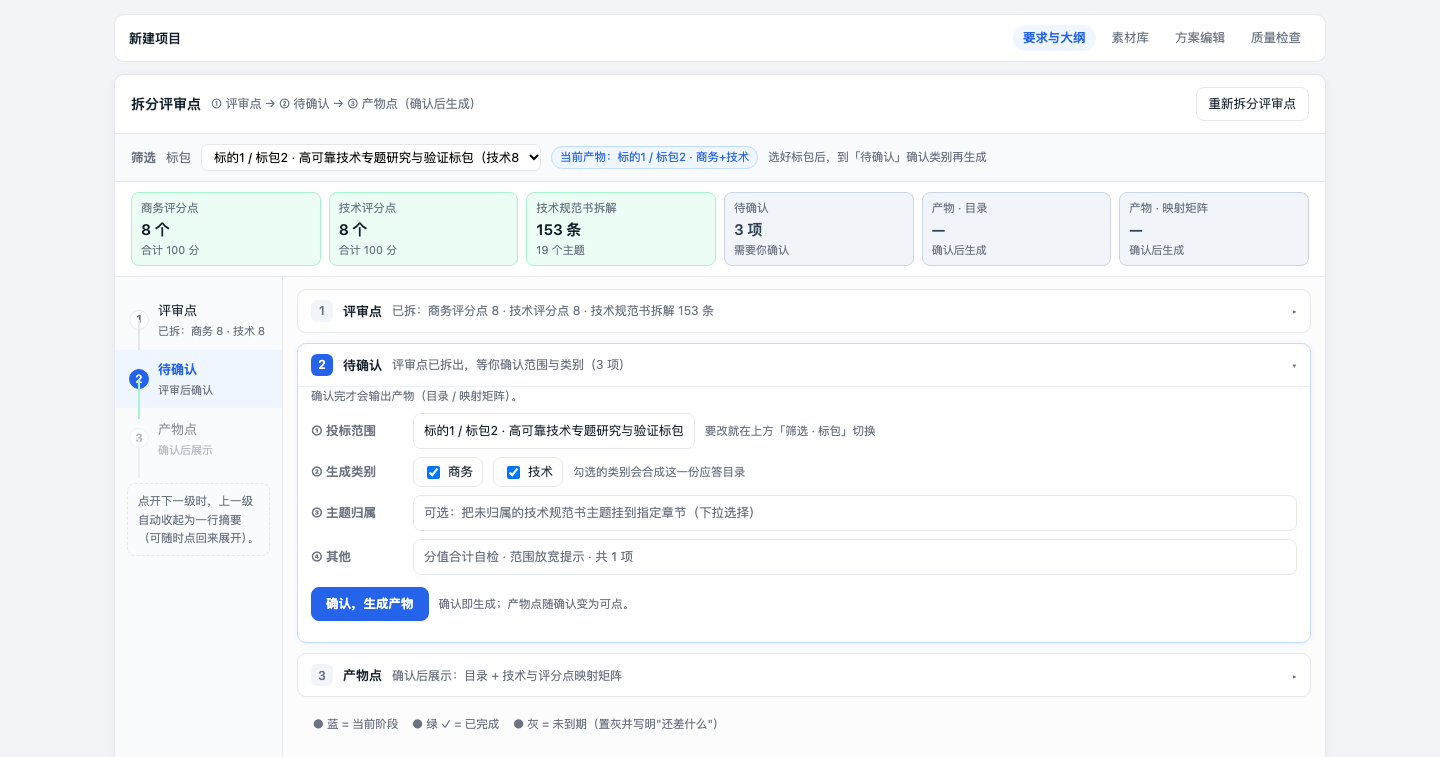
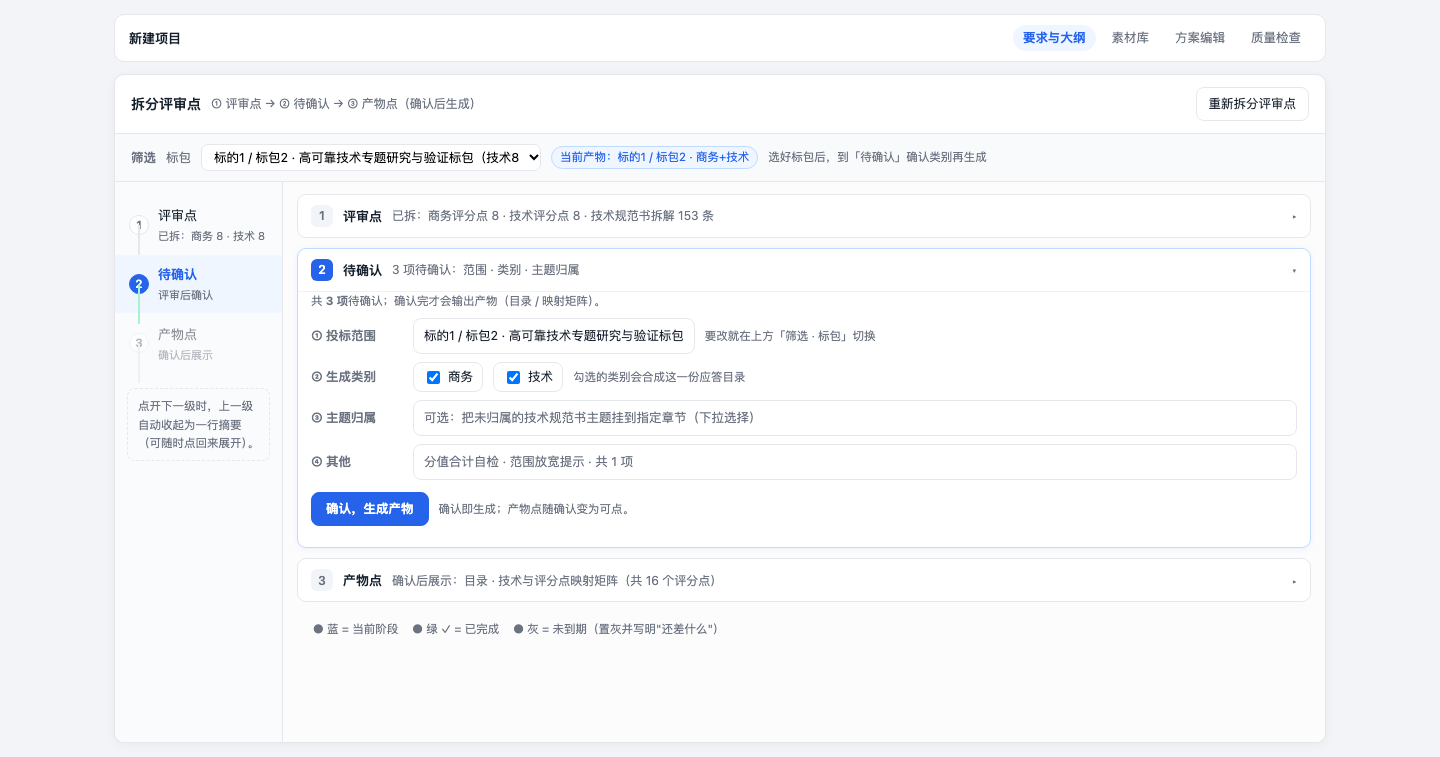
docs(mockup): 删掉顶部 6 格指标条 —— 数字归入各阶段（用户：融合到下面，不用单独展示）
用户反馈：
> 上面的 6 个模块，商务评分点就是评分点，这块内容可以融合到下面的内容里面去，就不用单独展示了

改法：
- 删除顶部 6 格指标条（商务评分点 / 技术评分点 / 技术规范书拆解 / 待确认 /
  产物·目录 / 产物·映射矩阵）—— 与下面阶段里的数量重复；
- 数量归到它该在的位置：
  · ① 评审点 摘要：商务评分点 8 · 技术评分点 8 · 技术规范书拆解 153 条
    （子页签 badge 也带 8 / 8 / 153）
  · ② 待确认 摘要：3 项待确认：范围 · 类别 · 主题归属
  · ③ 产物点 摘要：确认后展示：目录 · 技术与评分点映射矩阵（共 16 个评分点）
- 待确认阶段内补一行「共 3 项待确认」。

效果：面板从「筛选 + 6 格指标 + 三阶段」收敛为「筛选 + 左侧竖条 + 三阶段内容」。

diff --git a/docs/design/mockups/stage-rail-accordion.html b/docs/design/mockups/stage-rail-accordion.html
@@ -157,16 +157,6 @@
       <span class="note">选好标包后，到「待确认」确认类别再生成</span>
     </div>
 
-    <!-- 指标（随阶段变化；这里展示"评审点"阶段的指标） -->
-    <div class="metrics">
-      <div class="m ok"><div class="l">商务评分点</div><div class="v">8 个</div><div class="s">合计 100 分</div></div>
-      <div class="m ok"><div class="l">技术评分点</div><div class="v">8 个</div><div class="s">合计 100 分</div></div>
-      <div class="m ok"><div class="l">技术规范书拆解</div><div class="v">153 条</div><div class="s">19 个主题</div></div>
-      <div class="m pending"><div class="l">待确认</div><div class="v">3 项</div><div class="s">需要你确认</div></div>
-      <div class="m pending"><div class="l">产物 · 目录</div><div class="v">—</div><div class="s">确认后生成</div></div>
-      <div class="m pending"><div class="l">产物 · 映射矩阵</div><div class="v">—</div><div class="s">确认后生成</div></div>
-    </div>
-
     <div class="body">
       <!-- ── 左侧竖条三阶段导航 ── -->
       <nav class="rail">
@@ -235,11 +225,11 @@
           <div class="acc-head">
             <span class="idx">2</span>
             <span class="title">待确认</span>
-            <span class="summary">评审点已拆出，等你确认范围与类别（3 项）</span>
+            <span class="summary">3 项待确认：范围 · 类别 · 主题归属</span>
             <span class="right"><span class="caret">▸</span></span>
           </div>
           <div class="acc-body">
-            <div class="note">确认完才会输出产物（目录 / 映射矩阵）。</div>
+            <div class="note">共 <b>3 项</b>待确认；确认完才会输出产物（目录 / 映射矩阵）。</div>
             <div class="row"><span class="k">① 投标范围</span>
               <span class="box">标的1 / 标包2 · 高可靠技术专题研究与验证标包</span>
               <span class="note">要改就在上方「筛选 · 标包」切换</span></div>
@@ -263,7 +253,7 @@
           <div class="acc-head">
             <span class="idx">3</span>
             <span class="title">产物点</span>
-            <span class="summary">确认后展示：目录 + 技术与评分点映射矩阵</span>
+            <span class="summary">确认后展示：目录 · 技术与评分点映射矩阵（共 16 个评分点）</span>
             <span class="right"><span class="caret">▸</span></span>
           </div>
           <div class="acc-body">
@@ -304,8 +294,8 @@
         // 收起后把结论压成一行摘要，保持可读
         const s = a.querySelector('.summary');
         if (a.dataset.stage === '1') s.textContent = '已拆：商务评分点 8 · 技术评分点 8 · 技术规范书拆解 153 条';
-        if (a.dataset.stage === '2') s.textContent = '点击确认后进入（确认范围与类别）';
-        if (a.dataset.stage === '3') s.textContent = '确认后展示：目录 + 技术与评分点映射矩阵';
+        if (a.dataset.stage === '2') s.textContent = '3 项待确认：范围 · 类别 · 主题归属';
+        if (a.dataset.stage === '3') s.textContent = '确认后展示：目录 · 技术与评分点映射矩阵（共 16 个评分点）';
       }
     });
     rails.forEach(r => r.classList.toggle('on', r.dataset.stage === String(stage)));
